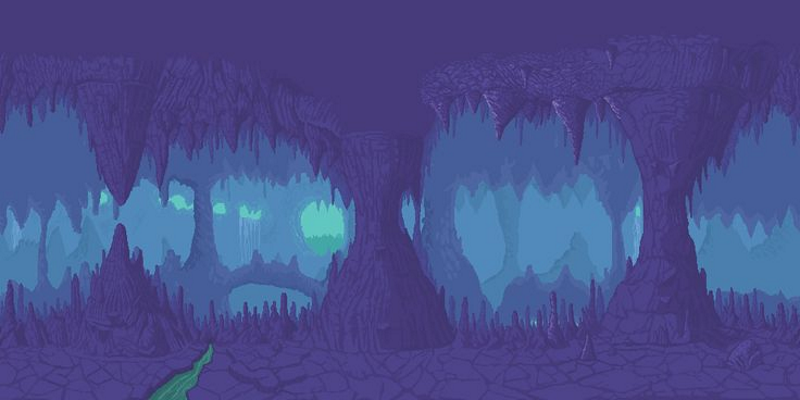
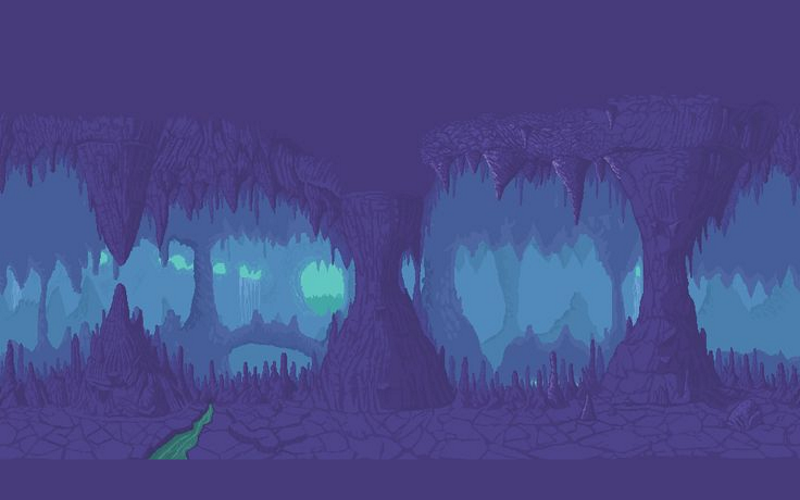
Changed UI a little

diff --git a/491Game/main.js b/491Game/main.js
@@ -103,12 +103,12 @@ Background.prototype.draw = function (ctx) {
 
 function UI(game) {
 	this.bottomX = 0;
-	this.bottomY = 280;
+	this.bottomY = 380;
 	this.bottomWidth = 800;
 	this.bottomHeight = 120;
 	
-	this.portraitX = 0;
-	this.portraitY = 300;
+	this.portraitX = 10;
+	this.portraitY = this.bottomY + 10;
 	this.portraitWidth = 100;
 	this.portraitHeight = 100;
 	
@@ -131,6 +131,21 @@ function UI(game) {
 	this.stamina1Y = this.bar2Y + 11;
 	this.stamina1Width = this.bar2Width - 8;
 	this.stamina1Height = this.bar2Height - 21;
+    
+    this.bossPortraitX = 150;
+    this.bossPortraitY = 20;
+    this.bossPortraitWidth = 80;
+    this.bossPortraitHeight = 80;
+    
+    this.bossBarX = this.bossPortraitX + this.bossPortraitWidth - 12;
+    this.bossBarY = this.bossPortraitY + 15;
+    this.bossBarWidth = 400;
+    this.bossBarHeight = 50;
+    
+    this.bossHealthX = this.bossBarX + 10;
+    this.bossHealthY = this.bossBarY + 18;
+    this.bossHealthWidth = this.bossBarWidth - 20;
+    this.bossHealthHeight = this.bossBarHeight - 35;
 	
 	Entity.call(this, game, 0, 0);
 }
@@ -148,6 +163,9 @@ UI.prototype.draw = function (ctx) {
     ctx.drawImage(ASSET_MANAGER.getAsset("./img/UI/BarBack.png"), this.bar2X, this.bar2Y, this.bar2Width, this.bar2Height);
     ctx.drawImage(ASSET_MANAGER.getAsset("./img/UI/StaminaBar.png"), this.stamina1X, this.stamina1Y, this.stamina1Width * (this.game.player1Stamina / this.game.player1MaxStamina), this.stamina1Height);
     ctx.drawImage(ASSET_MANAGER.getAsset("./img/Riven/RivenPortrait.png"), this.portraitX, this.portraitY, this.portraitWidth, this.portraitHeight);
+    ctx.drawImage(ASSET_MANAGER.getAsset("./img/UI/BarBack.png"), this.bossBarX, this.bossBarY, this.bossBarWidth, this.bossBarHeight);
+    ctx.drawImage(ASSET_MANAGER.getAsset("./img/UI/HealthBar.png"), this.bossHealthX, this.bossHealthY, this.bossHealthWidth, this.bossHealthHeight);
+    ctx.drawImage(ASSET_MANAGER.getAsset("./img/Reksai/ReksaiPortrait.png"), this.bossPortraitX, this.bossPortraitY, this.bossPortraitWidth, this.bossPortraitHeight);
     Entity.prototype.draw.call(this);	
 };
 
@@ -281,7 +299,7 @@ function Reksai(game) {
     this.walkAnimationRight = new Animation(ASSET_MANAGER.getAsset("./img/Reksai/ReksaiWalkRight.png"), 0, 0, 192, 107, 0.1, 17, true, false, 0, 0);
     this.walkAnimationLeft = new Animation(ASSET_MANAGER.getAsset("./img/Reksai/ReksaiWalkLeft.png"), 0, 0, 192, 107, 0.1, 17, true, false, 0, 0);
         
-    Entity.call(this, game, 600, 195);
+    Entity.call(this, game, 600, 295);
     
     this.currentAnimation = this.idleLeft;
     this.hitBoxDef = {
@@ -293,7 +311,6 @@ function Reksai(game) {
 		width: this.hitBoxDef.width + Math.abs(this.hitBoxDef.growthX), 
 		height: this.hitBoxDef.height
 	};
-    //this.hitBox = {x:this.x + this.currentAnimation.offsetX, y:this.y + this.currentAnimation.offsetY, width:this.currentAnimation.frameWidth, height:this.currentAnimation.frameHeight};
 }
 
 Reksai.prototype.update = function() {
@@ -337,8 +354,7 @@ Reksai.prototype.draw = function (ctx) {
 		width: this.hitBoxDef.width + Math.abs(this.hitBoxDef.growthX), 
 		height: this.hitBoxDef.height
 	};
-    //this.hitBox = {x:this.x + this.currentAnimation.offsetX, y:this.y + this.currentAnimation.offsetY, width:this.currentAnimation.frameWidth, height:this.currentAnimation.frameHeight};
-
+    
     drawHitBox(this, ctx);
     
     Entity.prototype.draw.call(this);
@@ -387,9 +403,9 @@ function Character(game) {
 	this.attacking = false;
 	this.attackIndex = 0;
     this.radius = 0;
-    this.ground = 200;
+    this.ground = 300;
     
-    Entity.call(this, game, 100, 200);
+    Entity.call(this, game, 100, 300);
     
     this.currentAnimation = this.idleAnimationRight;
     this.hitBoxDef = {
@@ -401,12 +417,6 @@ function Character(game) {
 		width: this.hitBoxDef.width + Math.abs(this.hitBoxDef.growthX), 
 		height: this.hitBoxDef.height
 	};
-    /*this.hitBox = {
-    	x:this.x + this.currentAnimation.offsetX, 
-		y:this.y + this.currentAnimation.offsetY, 
-		width:this.currentAnimation.frameWidth, 
-		height:this.currentAnimation.frameHeight
-	};*/
 }
 
 Character.prototype = new Entity();
@@ -665,6 +675,7 @@ ASSET_MANAGER.queueDownload("./img/Reksai/ReksaiIdleRight.png");
 ASSET_MANAGER.queueDownload("./img/Reksai/ReksaiIdleLeft.png");
 ASSET_MANAGER.queueDownload("./img/Reksai/ReksaiWalkLeft.png");
 ASSET_MANAGER.queueDownload("./img/Reksai/ReksaiWalkRight.png");
+ASSET_MANAGER.queueDownload("./img/Reksai/ReksaiPortrait.png");
 
 ASSET_MANAGER.queueDownload("./img/Background.png");
 ASSET_MANAGER.queueDownload("./img/UI/Bottom.png");

diff --git a/491Game/index.html b/491Game/index.html
@@ -9,6 +9,6 @@
     <script type="text/javascript" src="./main.js"></script>
 </head>
 <body>
-    <canvas id="gameWorld" tabindex="1" width="800" height="400"></canvas>
+    <canvas id="gameWorld" tabindex="1" width="800" height="500"></canvas>
 </body>
 </html>
